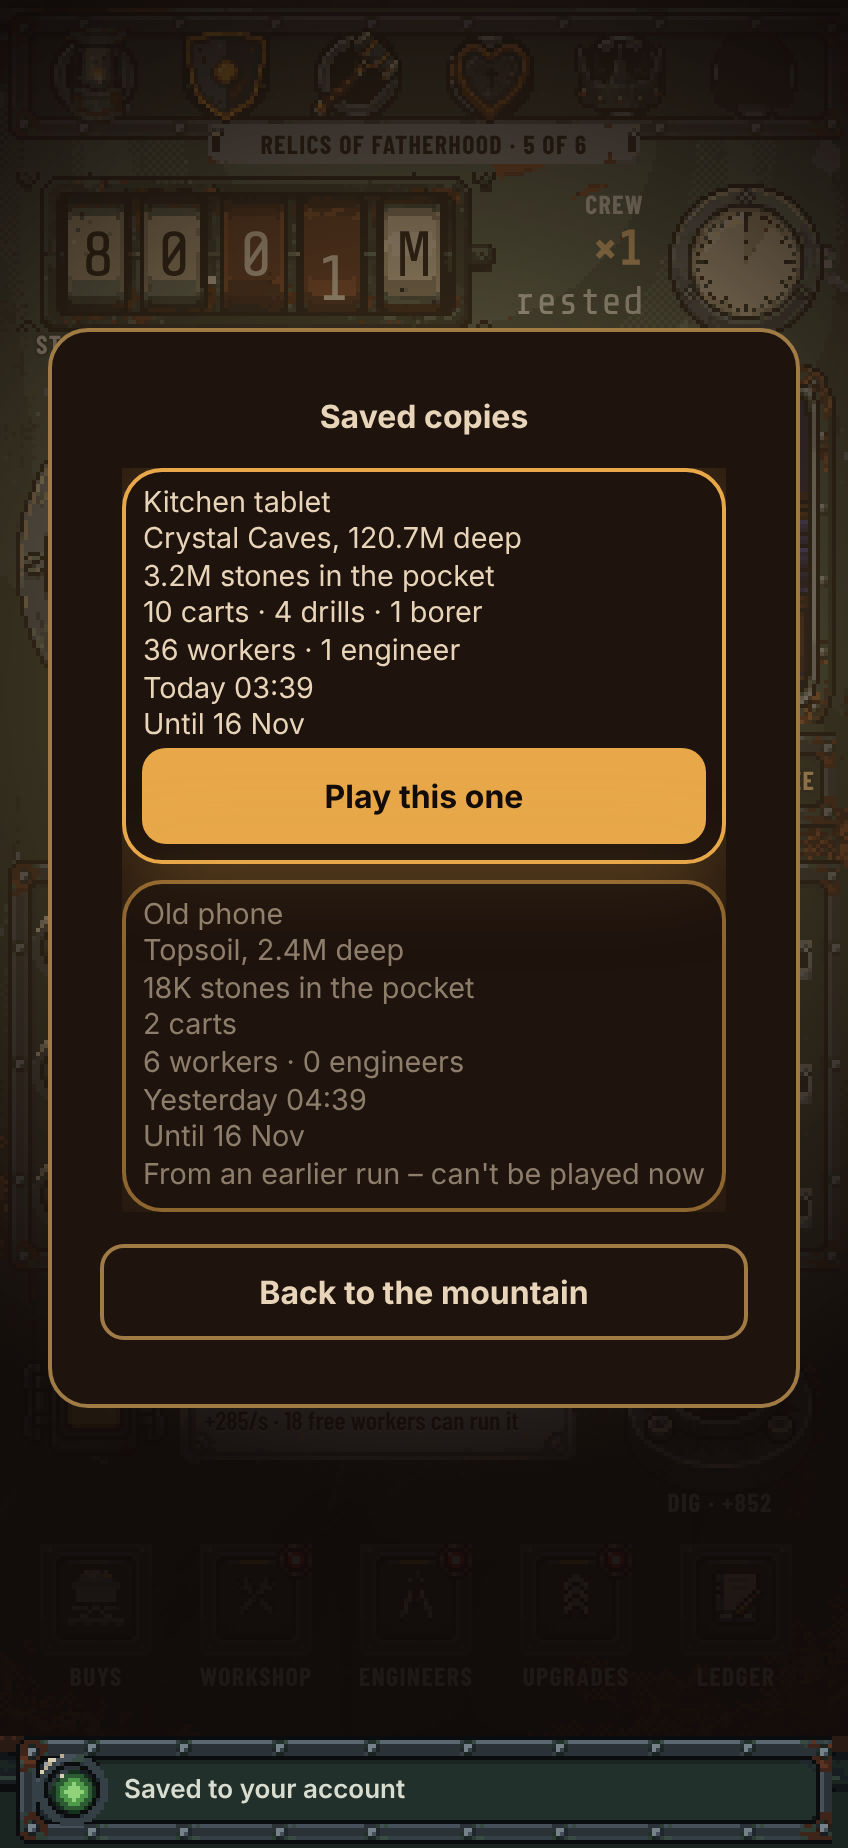
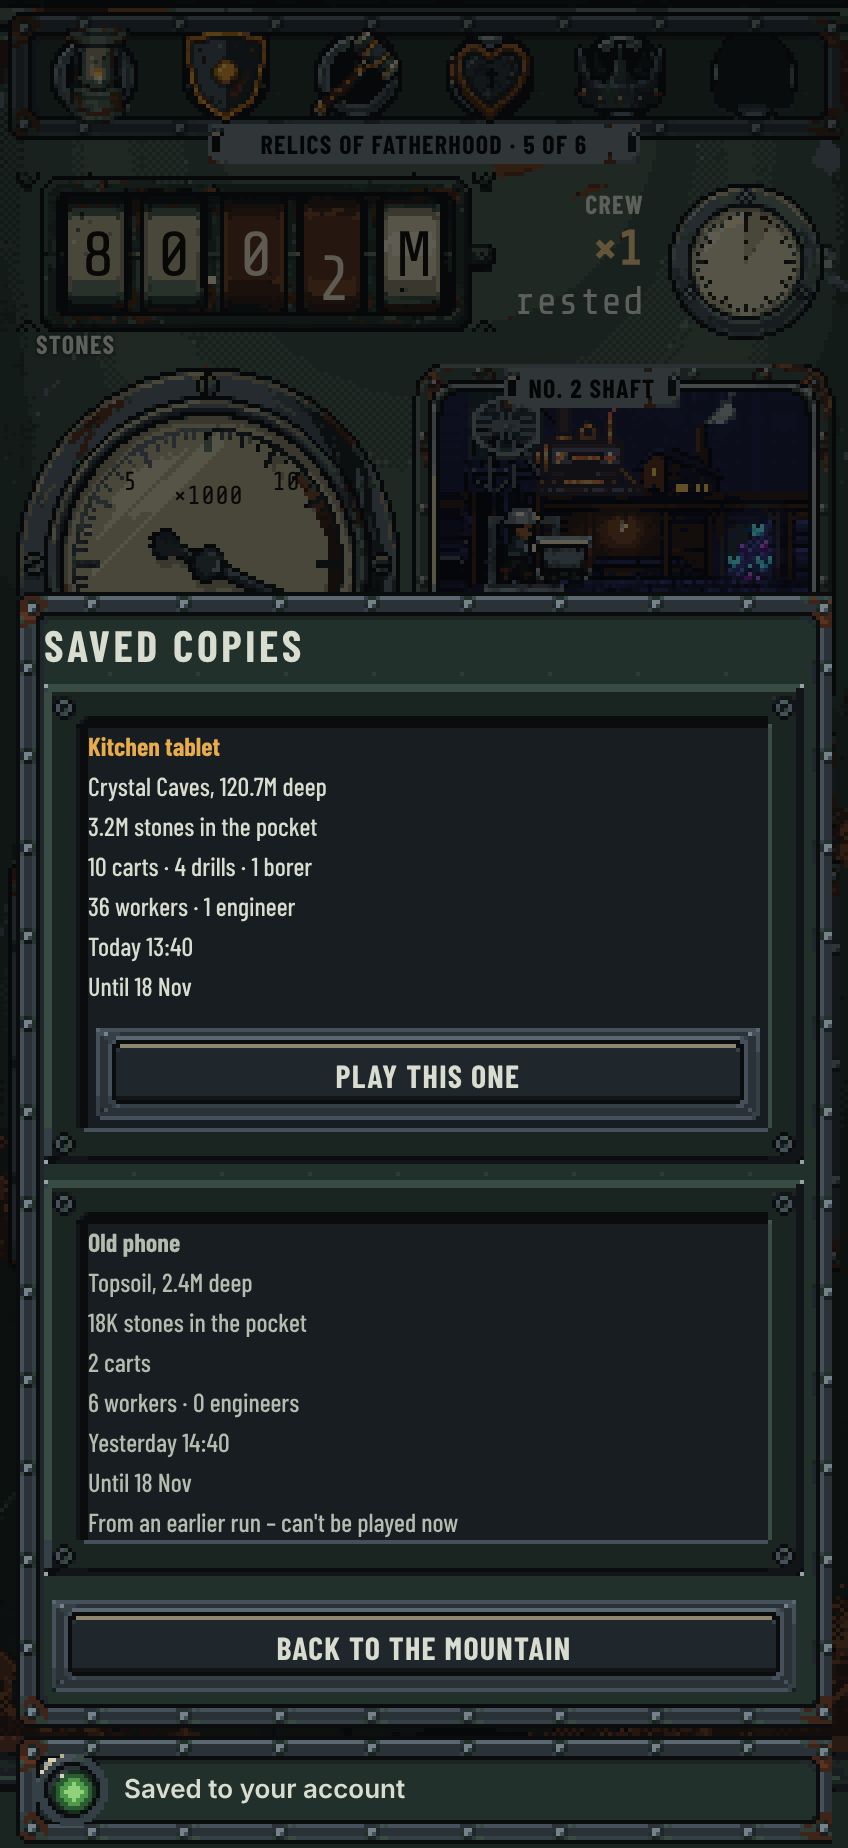
B7d: the plan, the copies' insets clear of their edges, the UI audit's card shots and the docs (#466)
Claude-Session: https://claude.ai/code/session_011RgeWsquihPWxj6FV1mWFy

diff --git a/src/board.css b/src/board.css
@@ -2999,8 +2999,9 @@ button.board-row:focus-visible {
   flex-direction: column;
   gap: calc(var(--art) * 1);
   margin: 0;
-  /* The inset's bottom edge is 9 art px: the last line stands clear of it. */
-  padding: calc(var(--art) * 4) calc(var(--art) * 4) calc(var(--art) * 9);
+  /* Clear of the inset's edges: 11 art px top and left, 9 right and bottom. */
+  padding: calc(var(--art) * 11) calc(var(--art) * 9) calc(var(--art) * 9)
+    calc(var(--art) * 11);
 }
 
 .saved-copy > .board-card-line {

diff --git a/docs/ui-audit.md b/docs/ui-audit.md
@@ -45,7 +45,7 @@ Bars used below:
 | Legend                   | [shot](ui-audit/relic-legend-424x924.png)           | After the Mantle's reveal, on the same drawer: the six relics lit, the stones and the crew, `Stand proud` and `Pass to your kid` side by side.                                                                                                                                                                                                                                                                                                                                                                                                                                                                                                                                                                                                                                                                                                                    |
 | Legacy badge             | [shot](ui-audit/legacy-badge-424x924.png)           | `Legacy ×2` on the brass plate across the mine window's lower edge, one art pixel above the crew plate.                                                                                                                                                                                                                                                                                                                                                                                                                                                                                                                                                                                                                                                                                                                                                           |
 | Pass the mine            | [shot](ui-audit/legacy-pass-424x924.png)            | The Ledger on a finished mountain: the lit Mantle, `Every relic is yours. You are a legend.`, and the `Pass the mine` plate beside Start over. Fits, no scroll.                                                                                                                                                                                                                                                                                                                                                                                                                                                                                                                                                                                                                                                                                                   |
-| Pass confirm             | [shot](ui-audit/legacy-confirm-424x924.png)         | Title is `Pass the mine to your kid.`, no question mark. The stakes are written in full.                                                                                                                                                                                                                                                                                                                                                                                                                                                                                                                                                                                                                                                                                                                                                                          |
+| Pass confirm             | [shot](ui-audit/legacy-confirm-424x924.png)         | A board card (#466): title `Pass the mine to your kid.`, no question mark, the Legacy step in amber, the rates, what carries over and what starts fresh, then `Not yet` (focused) and `Pass it on` side by side. The stakes are written in full. Fits the drawer's box, no scroll.                                                                                                                                                                                                                                                                                                                                                                                                                                                                                                                                                                                |
 | Welcome back             | [shot](ui-audit/welcome-back-424x924.png)           | A board card (#464): the haul as one big amber number, the gone line, the material line with its icon at 32 when ore came up (none in this save), the cheer, and one plate, `Back to the mountain`, at the thumb. The face rises from the save line; the board above it dims. The 2-minute door.                                                                                                                                                                                                                                                                                                                                                                                                                                                                                                                                                                  |
 | Layer arrival            | [shot](ui-audit/layer-arrival-424x924.png)          | A board card (#464): the Granite's own window view at 184×152, `You broke into the Granite!`, the evocative line, the machine it suits and the sketch, then `Dig on`. No depth number.                                                                                                                                                                                                                                                                                                                                                                                                                                                                                                                                                                                                                                                                            |
 | Ledger                   | [shot](ui-audit/ledger-424x924.png)                 | The Ledger drawer (#375): The mine (stones left with the materials, the relics row with the goal and the bar), Account, and the plates two by two. No Tonight on a save with no events this run, so the spare plate fills. The plates are 54px tall.                                                                                                                                                                                                                                                                                                                                                                                                                                                                                                                                                                                                              |
@@ -60,7 +60,7 @@ Bars used below:
 | Running now              | [shot](ui-audit/running-now-424x924.png)            | The boost dial opens the Running now note: one line per countdown, inside the board.                                                                                                                                                                                                                                                                                                                                                                                                                                                                                                                                                                                                                                                                                                                                                                              |
 | Two saves, at rest       | [shot](ui-audit/save-conflict-rest-424x924.png)     | A board card (#464): real depths and pockets. The two sides are inset plates 8px apart, each with its lamp; `This phone` (more stones mined) is lit green. `Play this one` has the focus. The lines are 13px and ellipsize, with every word on the side's label.                                                                                                                                                                                                                                                                                                                                                                                                                                                                                                                                                                                                  |
 | Two saves, other card    | [shot](ui-audit/save-conflict-selected-424x924.png) | A tap on `Other device`, past the card's 400ms settle, moves the green lamp there. Same gaps.                                                                                                                                                                                                                                                                                                                                                                                                                                                                                                                                                                                                                                                                                                                                                                     |
-| Saved copies             | [shot](ui-audit/saved-copies-earlier-424x924.png)   | One row is greyed: `From an earlier run – can't be played now`.                                                                                                                                                                                                                                                                                                                                                                                                                                                                                                                                                                                                                                                                                                                                                                                                   |
+| Saved copies             | [shot](ui-audit/saved-copies-earlier-424x924.png)   | A board card (#466): each copy an inset with its seven lines and `Play this one`; the earlier run's is greyed, with `From an earlier run – can't be played now` and no plate. `Back to the mountain` has the focus.                                                                                                                                                                                                                                                                                                                                                                                                                                                                                                                                                                                                                                               |
 | Playing in another tab   | [shot](ui-audit/other-tab-playing-424x924.png)      | A short board card (#464) by the thumb: the title, one gentle line and the `Play here` plate (`.other-tab-play`), focused as it opens.                                                                                                                                                                                                                                                                                                                                                                                                                                                                                                                                                                                                                                                                                                                            |
 | Update available         | [shot](ui-audit/update-available-424x924.png)       | A short board card (#464): `Update available` and one plate, `Reload` (`.update-reload`). One job: reload. The shot opens it with the dev hook `?update=shown`.                                                                                                                                                                                                                                                                                                                                                                                                                                                                                                                                                                                                                                                                                                   |
 

diff --git a/docs/superpowers/plans/2026-11-11-ledger-cards.md b/docs/superpowers/plans/2026-11-11-ledger-cards.md
@@ -1,0 +1,46 @@
+# Control Board B7d: the Ledger's Saved copies and Pass the mine cards (#466)
+
+**Goal:** The two cards the Ledger opens, Saved copies and Pass the mine, move to the board card shell that B7b built (#464). The last `.start-over*`, `.menu-*`, `.saved-cop*` and `.legacy-*` card CSS leaves `style.css`.
+
+**Base:** `main` at 2be9a72, with B7a (#375, PR #467), B7b (#464, PR #471) and B7c (#465, PR #470) merged.
+
+**Out of scope:**
+
+- the relics drawer (B7c);
+- the other cards (B7b);
+- the PC desk (B8, #376).
+
+**Spec:** `docs/superpowers/specs/2026-11-07-control-board-design.md`, "Where everything else goes", which says the ☰ menu's saved copies and pass the mine become the Ledger. B7a's plan put their cards on the card shell.
+
+## Rulings
+
+1. **Cards, not Ledger pages.** Both stay cards on `board-card.ts`, as the issue says. The Ledger closes first, as it does today (`handOff`). `CardId` gains `copies` and `legacy`, so both press and settle through the board's model.
+2. **Hooks stay put**, as B7b kept them:
+   - `.saved-copies`, `#saved-copies-title`, `.saved-copy`, `.is-earlier-run`, `.earlier-run`, and `.save-conflict-play` and `.save-conflict-error` inside it;
+   - `.legacy-dialog`, `#legacy-title`, `#legacy-detail`, `.legacy-lead`, `.legacy-rates`, `.legacy-keeps`, `.legacy-fresh`, `.legacy-legend`, `.legacy-cancel` and `.legacy-confirm`.
+
+   Saved copies' close plate is renamed from `.menu-close` to `.saved-copies-close`, so no `.menu-*` name is left.
+
+3. **Pass the mine stays an alert dialog**, described by its body.
+   - Not yet has the focus.
+   - Not yet and Escape close it and give the focus back to what opened it.
+   - Pass it on presses through the board, so the second tap of the tap that opened the card never passes the mine.
+4. **Saved copies gets Escape too**, as Pass the mine has, and it gives the focus back to the Ledger key. A card that the player opened closes the way a dialog does. The cards that open by themselves still have no Escape.
+5. **Each copy is an inset**, as the conflict's sides are. Its lines sit clear of the inset's edges: 11 art px top and left, 9 right and bottom.
+   - Each inset is built once per copy (and per earlier-run state), then rewritten line by line. A tick never rebuilds a plate, the focus stays put, and the presses do not pile up.
+   - Each copy's Play this one is its own control (`play-<id>`).
+   - A second press while a restore is running does nothing.
+6. **The list scrolls inside the face** when the copies outgrow it. This is the one card body that may shrink (`.saved-copies .board-card-body`). Every other card body still never shrinks, so an overflow shows in the face.
+7. **Words move to `screen-words.ts`:** `PASS_TITLE`, `PASS_NOT_YET`, `PASS_IT_ON`, `SAVED_COPIES_EMPTY` and `SAVED_COPY_GONE`. They are today's words, with no new copy.
+
+## Modules
+
+- `src/board-interaction.ts`: `CardId` gains `copies` and `legacy`.
+- `src/legacy-panel.ts`: the confirm moves onto `createBoardCard`. Its API stays (`badge`, `dialog`, `open`, `offered`, `render`) and gains `board`.
+- `src/saved-copies-panel.ts`: the list moves onto `createBoardCard`. `open(from?)` gives the focus back to `from`, and the panel gains `board`.
+- `src/screen-panels.ts` and `src/ledger-panel.ts`: pass `board` in, and the Ledger key as the opener.
+- CSS: the old rules leave `style.css`, and the two cards' rules go in `board.css` after the conflict's.
+- Tests: new `legacy-panel.test.ts` and `saved-copies-panel.test.ts`; `style.test.ts`, `mountain-screen-order.test.ts` and `mountain-screen-depths.test.ts` follow.
+- Checks: two rows join the board cards table in `scripts/visual/notices-saves.mjs`; section 9 in `cards.mjs` reads the card face; the UI audit shoots both cards risen.
+
+Proof follows the ladder in `.claude/rules/dad-friendly-work.md`.

diff --git a/docs/DESIGN.md b/docs/DESIGN.md
@@ -112,7 +112,7 @@ Old saves are migrated, not wiped: dug cells count as stones already mined out o
   - **Tonight:** this run's newest three lines in an inset box, newest first, each with its local time ("22:13") and one line of words that ends in an ellipsis rather than wrap. Tonight is the field log since the mountain in play came into play, so a Start over, a pass, a restored copy, or the cloud's or another device's copy taking its place starts a new one. A line is a buy ("Hired worker 12."), an upgrade's level, a boost started ("Overtime started for 30:00."), a craft on the bench or fitted, a relic found, a layer's arrival, the away haul ("Came back. The crew dug 1.2M while you were away."), a golden vein's stones, a fix ("Fixed! The crew cheers."), or an engineer promoted, stationed, sent out, recalled or home. Save and log events never show (the save line speaks for the save), and an event it cannot word truly is skipped, never guessed. With no line, the Tonight legend and box hide and the spare plate fills.
   - **The mine:** two 76px rows that take no tap. Stones: the stone icon, "412.4K stones left" (the exact count on its tooltip) and the materials met as one line ("Clay 10 · Iron 4"). Relics: the next relic's dark icon, "2 of 6 relics found", the goal ("Next: … · …", or the unguided sentence, with the Legacy on a kid's run), the next layer's hint, and the guide bar at the row's foot. Once every relic is found, the lit Mantle and "Every relic is yours. You are a legend."
   - **Account:** a row named "Account" with its state ("Not signed in", "Signing in...", "Signed in as …") and the verb Sign in or Sign out. A tap while signing in does nothing.
-  - **Four plates, two by two:** Saved copies and Copy field log, then Start over and Pass the mine. Pass the mine shows only while the finished mountain offers it ("Pass the mine to your kid" on its label). Saved copies and Pass the mine close the Ledger and open today's cards; those cards move to the board's skin in B7c (#465).
+  - **Four plates, two by two:** Saved copies and Copy field log, then Start over and Pass the mine. Pass the mine shows only while the finished mountain offers it ("Pass the mine to your kid" on its label). Saved copies and Pass the mine close the Ledger and open their board cards (#466). Saved copies lists each copy in an inset (device, depth, pocket, machines, crew, last played, kept until) with "Play this one", or an earlier run's greyed line, then "Back to the mountain"; a long list scrolls inside the card. Pass the mine shows the Legacy step, the real rates, what carries over and what starts fresh, then "Not yet" (with the focus) and "Pass it on" side by side. Both give the focus back to the Ledger key when closed, and Escape closes them.
   - **Two pages** take the list's place under the same head and Back. Start over shows "Start over?", what is lost, "Keep my mountain" (with the focus) and "Yes, start over". Keep goes back to the list. Yes resets the run and closes the drawer, with focus on the Ledger key. The field log page shows when the browser refuses the clipboard.
 
   Its taps are the drawers': for 400ms after it opens, a finger on a row, a plate or the "i" does nothing, and a page that shows starts the same 400ms again, so the second tap of the tap on Start over lands on nothing and throws nothing away. Copy field log holds "Copied" for 1.9s, as a row holds Done. Back, the scrim and Escape close the whole drawer, on the list or on a page, which keeps the mountain. The "i" shows the Time away and Relics cards under "Back to the Ledger". A save that loads again under the open drawer leaves it open: the stones and relics rows go dark, and Copy field log, Start over and Yes disable; Account stays live.

diff --git a/docs/ARCHITECTURE.md b/docs/ARCHITECTURE.md
@@ -124,10 +124,13 @@ page is the map, plus the rules that keep it that way.
    `mountain-screen-order.test.ts` pins the order the parts register their
    listeners, the effect row's chips and the root's children. Panels are
    their own modules with a `create…Panel` factory returning their elements
-   and a `render()` (`upgrades-panel`, `relic-panels`, `welcome-panel`, `ledger-panel`, `crew-panel`, `workshop-panel`, `arrival-panel`). The six board cards (#464) are built
+   and a `render()` (`upgrades-panel`, `relic-panels`, `welcome-panel`, `ledger-panel`, `crew-panel`, `workshop-panel`, `arrival-panel`). The eight board cards (#464, #466) are built
    on one shell, `board-card`: `welcome-panel` (welcome back), `arrival-panel`
-   (the layer card and craft done), `save-conflict-panel` (the save conflict)
-   and `screen-prompts` (the other tab and the update). What the welcome,
+   (the layer card and craft done), `save-conflict-panel` (the save conflict),
+   `screen-prompts` (the other tab and the update), `saved-copies-panel`
+   (Saved copies: an inset per copy, built once per copy and rewritten line
+   by line, in a list that scrolls inside the face) and `legacy-panel` (Pass
+   the mine, an alert dialog; Escape is Not yet). What the welcome,
    layer and craft-done cards show comes from `card-views`, pure and with no
    DOM: `welcomeView`, `welcomeNews` (the one rule for when the welcome has
    news, which `arrivalCard` also reads) and `arrivalCard` (the layer card,
@@ -323,7 +326,8 @@ focus)` (`showCard`, the model's open or close, and the focus once as it
    key); the field log shows on the other when `writeClipboard` says no.
    Copy field log's `Copied` is the board model's `result` and hold, as a
    row's Done. Saved copies and Pass the mine close the drawer without
-   moving focus and open today's cards until B7c (#465). Tonight
+   moving focus and open their board cards (#466), which give the focus
+   back to the Ledger key when they close. Tonight
    reads `progress.tonightEvents()` only while the drawer is open: the
    ring's events since its mark, which a run's start clears and a copy from
    elsewhere taking the mountain's place (a restore, the cloud's or another
